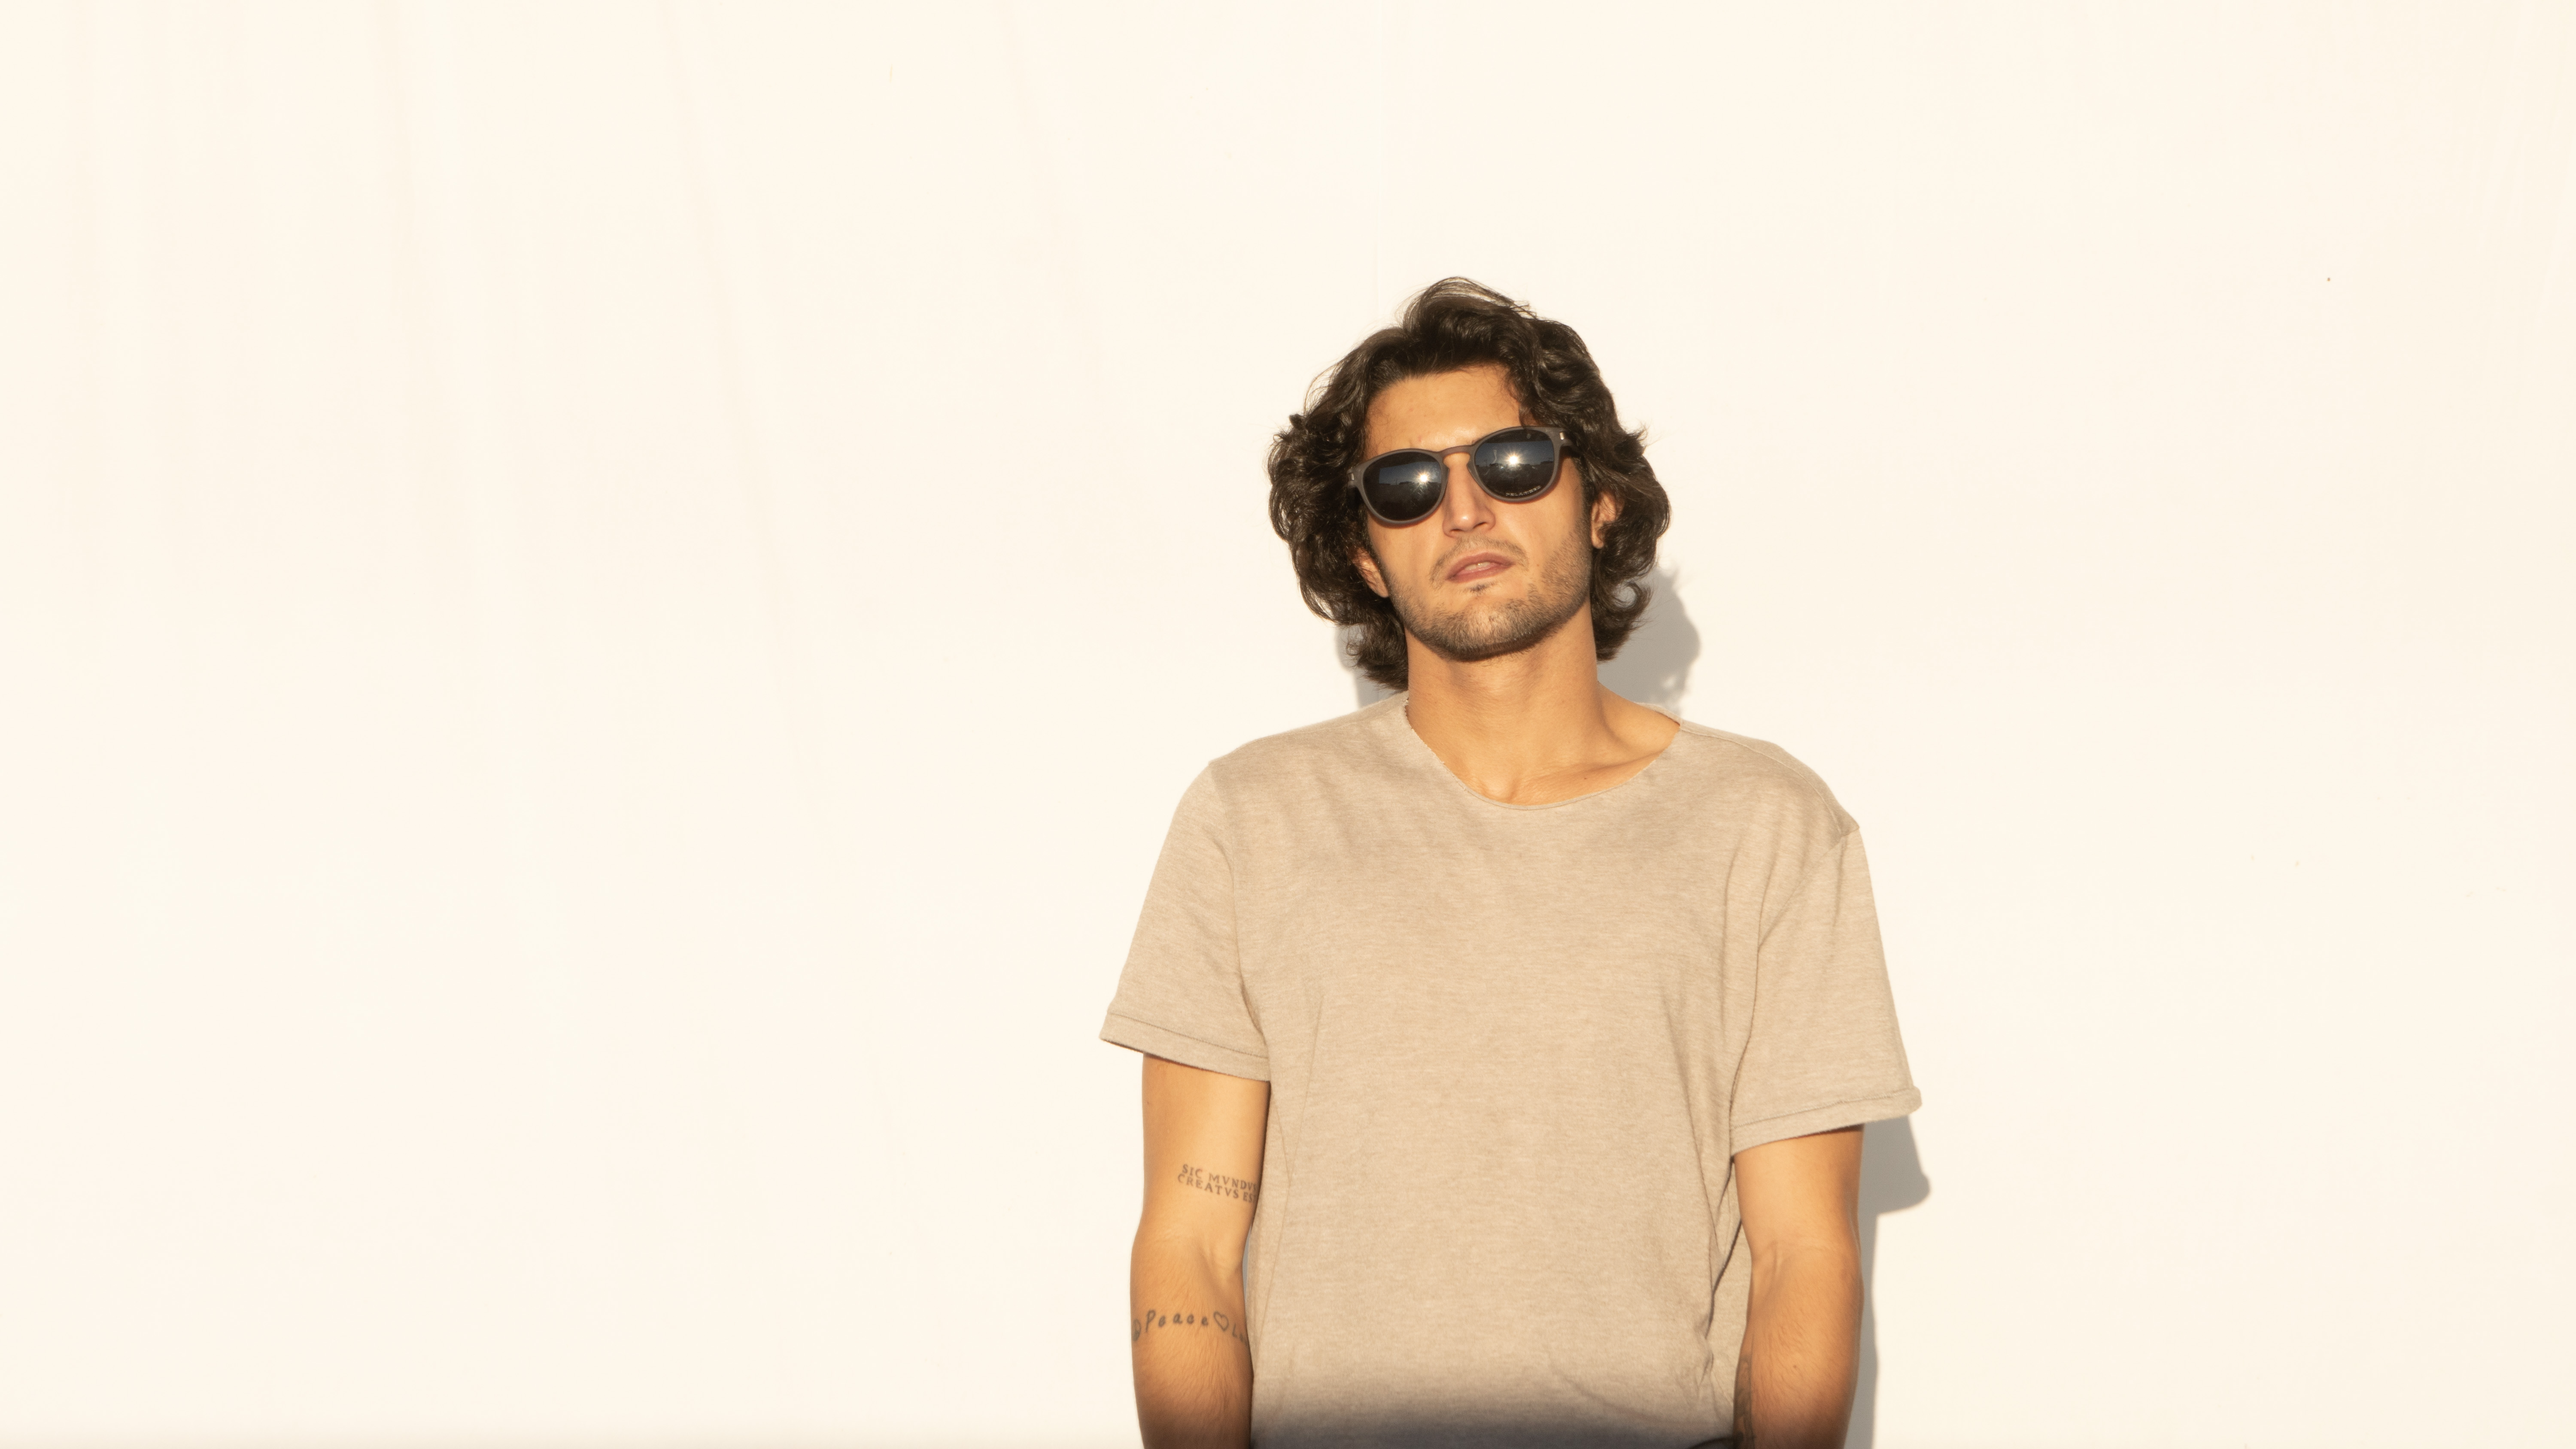
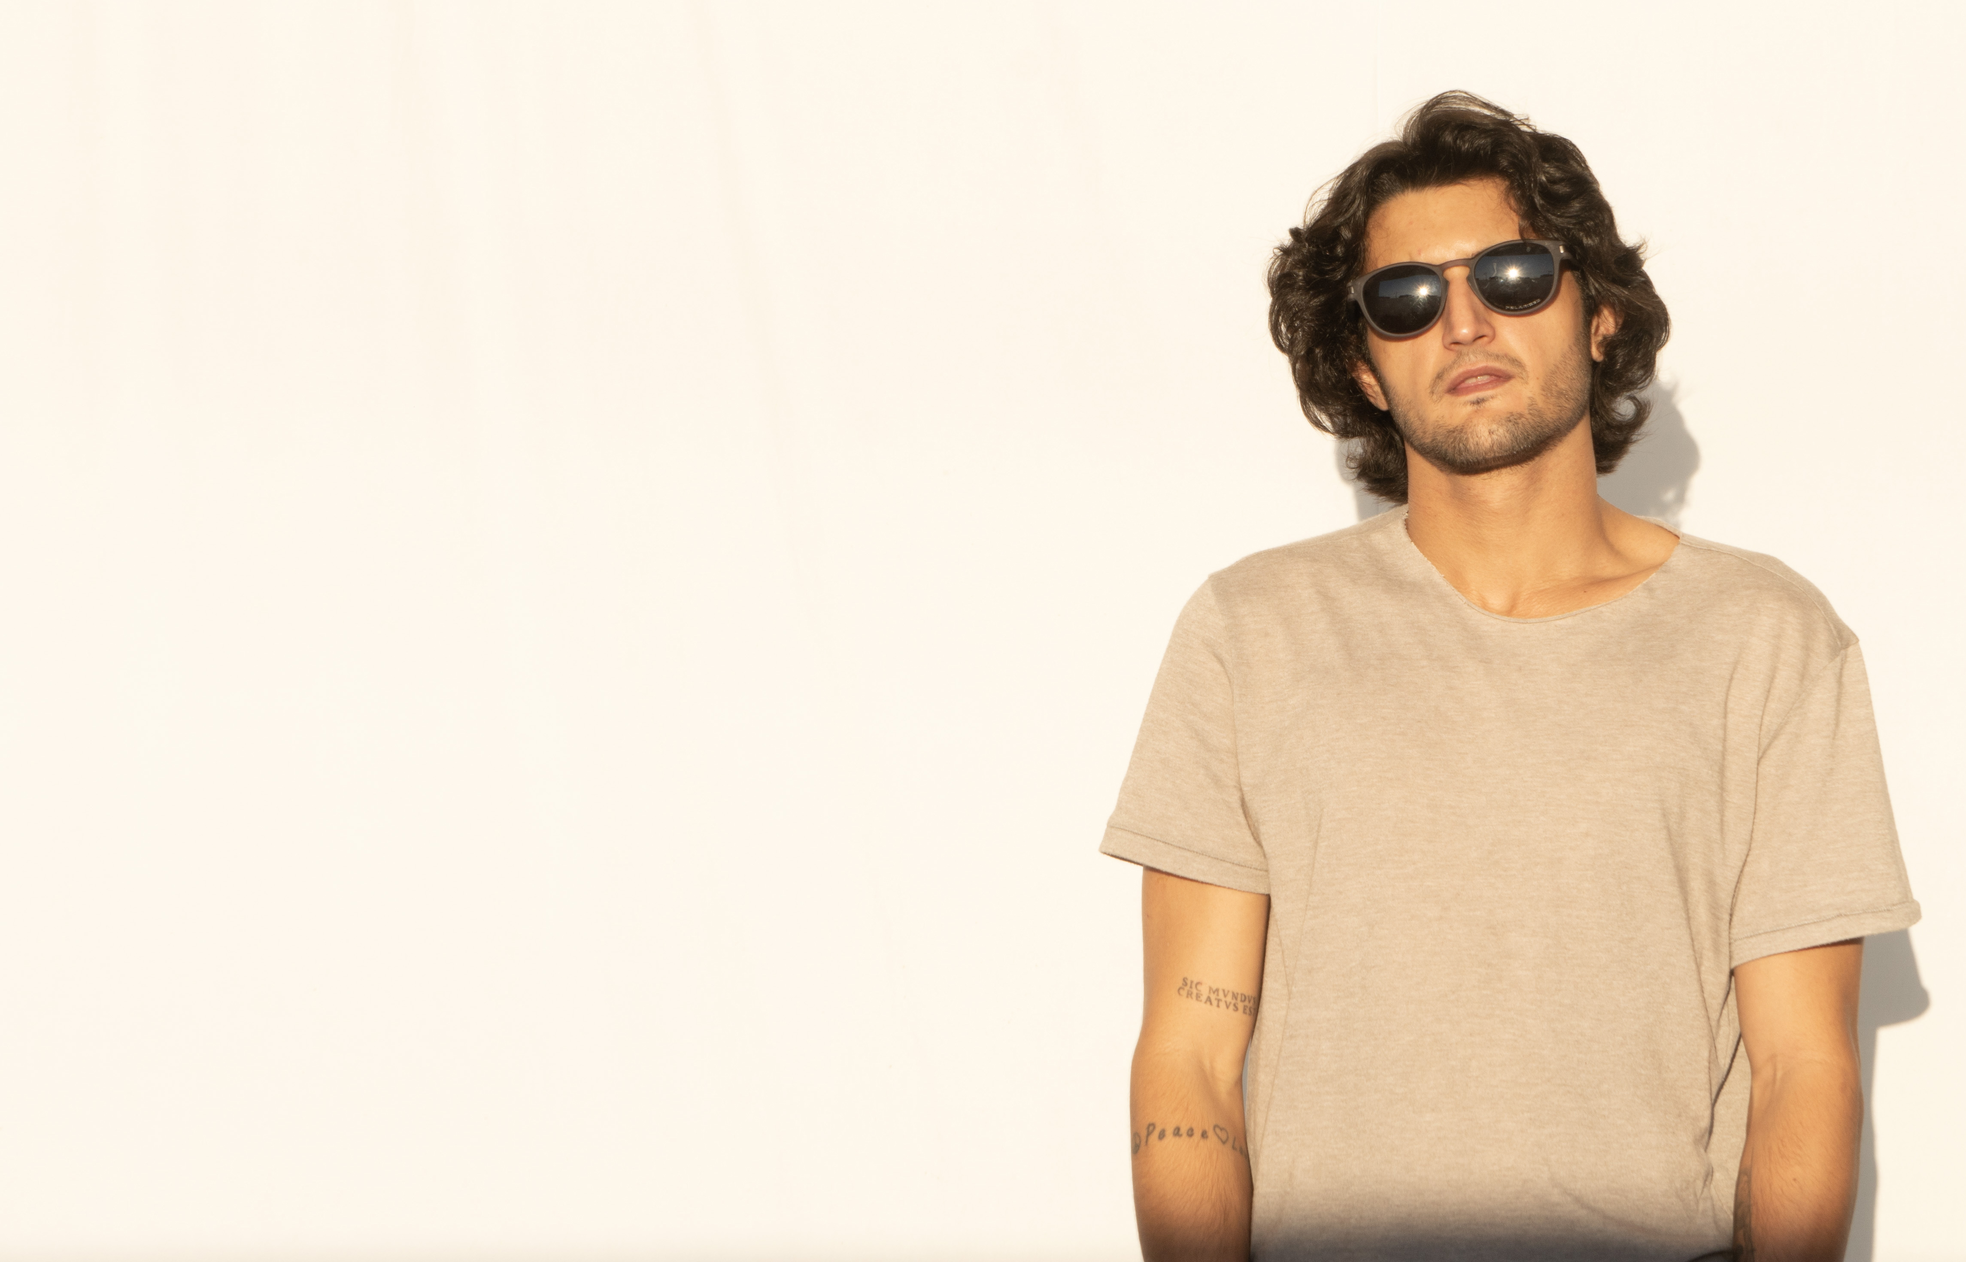
git commit -m "feat: add mobile responsiveness and static export config"

diff --git a/src/components/sections/Contact/index.tsx b/src/components/sections/Contact/index.tsx
@@ -1,10 +1,14 @@
+'use client';
+
 import SectionLabel from '@/components/ui/SectionLabel';
 import ContactForm from './ContactForm';
 
 const INFO_ITEMS = [
-  { key: 'Email', value: 'matheus_psilveira@hotmail.com', highlight: false },
-  { key: 'Tipo de projeto', value: 'Web App · Mobile · Front-end · Back-end', highlight: false },
-  { key: 'Disponibilidade', value: 'Disponível agora', highlight: true },
+  { key: 'Email', value: 'matheus_psilveira@hotmail.com', href: 'mailto:matheus_psilveira@hotmail.com', highlight: false },
+  { key: 'GitHub', value: 'github.com/mrmath12', href: 'https://github.com/mrmath12', highlight: false },
+  { key: 'LinkedIn', value: 'linkedin.com/in/matheus-carvalho-465a00288', href: 'https://linkedin.com/in/matheus-carvalho-465a00288/', highlight: false },
+  { key: 'Tipo de projeto', value: 'Web App · Mobile · Front-end · Back-end', href: null, highlight: false },
+  { key: 'Disponibilidade', value: 'Disponível agora', href: null, highlight: true },
 ];
 
 export default function Contact() {
@@ -44,7 +48,7 @@ export default function Contact() {
         </p>
 
         <div style={{ display: 'flex', flexDirection: 'column', gap: '16px' }}>
-          {INFO_ITEMS.map(({ key, value, highlight }) => (
+          {INFO_ITEMS.map(({ key, value, href, highlight }) => (
             <div key={key}>
               <div
                 style={{
@@ -58,9 +62,27 @@ export default function Contact() {
               >
                 {key}
               </div>
-              <div style={{ fontSize: '15px', color: highlight ? 'var(--brand)' : 'var(--fg2)' }}>
-                {value}
-              </div>
+              {href ? (
+                <a
+                  href={href}
+                  target={href.startsWith('mailto') ? undefined : '_blank'}
+                  rel="noopener noreferrer"
+                  style={{
+                    fontSize: '15px',
+                    color: highlight ? 'var(--brand)' : 'var(--fg2)',
+                    textDecoration: 'none',
+                    transition: 'color 150ms ease',
+                  }}
+                  onMouseEnter={(e) => { (e.currentTarget as HTMLElement).style.color = 'var(--brand)'; }}
+                  onMouseLeave={(e) => { (e.currentTarget as HTMLElement).style.color = highlight ? 'var(--brand)' : 'var(--fg2)'; }}
+                >
+                  {value}
+                </a>
+              ) : (
+                <div style={{ fontSize: '15px', color: highlight ? 'var(--brand)' : 'var(--fg2)' }}>
+                  {value}
+                </div>
+              )}
             </div>
           ))}
         </div>

diff --git a/src/data/projects.ts b/src/data/projects.ts
@@ -30,7 +30,7 @@ export const PROJECTS: Project[] = [
     title: 'Conecta Social Campos',
     cat: 'Desenvolvimento Mobile',
     year: '2025',
-    desc: 'App feito para a Secretaria Municipal de Assistência Social e Cidadania de Campos/RJ con o intuito de juntar todos os programas, serviços e subsecretarias em um único local, facilitando o acesso à população. Também conta com seção de eventos, onde gestores da secretaria podem cadastrar eventos (painel administrativo web)',
+    desc: 'App feito para a Secretaria Municipal de Assistência Social e Cidadania de Campos/RJ com o intuito de juntar todos os programas, serviços e subsecretarias em um único local, facilitando o acesso à população. Também conta com seção de eventos, onde gestores da secretaria podem cadastrar eventos (painel administrativo web)',
     tags: ['React Native', 'TypeScript'],
     bg: '#1d1f14',
     icon: '◧',
@@ -42,8 +42,8 @@ export const PROJECTS: Project[] = [
     title: 'Daychain - Construa seu protocolo diário.',
     cat: 'Desenvolvimento Web',
     year: '2026',
-    desc: 'Serviço focado em ajudar pessoas a construir hábitos saudáveis. SEja para aumentar sua produtividade, bem-estar, saúde... ',
-    tags: ['Next.JS', 'Supabe', 'SQL'],
+    desc: 'Serviço focado em ajudar pessoas a construir hábitos saudáveis. Seja para aumentar sua produtividade, bem-estar ou saúde.',
+    tags: ['Next.JS', 'Supabase', 'SQL'],
     bg: '#1a1d2b',
     icon: '⬡',
     image: '/projects/daychain.png'

diff --git a/src/components/Modal.tsx b/src/components/Modal.tsx
@@ -4,6 +4,7 @@ import { useEffect, useState } from 'react';
 import Image from 'next/image';
 import { PROJECTS } from '@/data/projects';
 import Tag from '@/components/ui/Tag';
+import Button from '@/components/ui/Button';
 
 type ModalProps = {
   projectId: number | null;
@@ -142,18 +143,26 @@ export default function Modal({ projectId, onClose }: ModalProps) {
             whiteSpace: 'pre-line',
           }}
         >
-          {project.desc}{'\n\n'}
-          <a className='transition-transform hover:scale-101 inline-block' href={project.url} target='blank'>{project.url ? '| ACESSAR PROJETO |' : 'EM BREVE'}</a>
+          {project.desc}
         </p>
 
         {/* 6. Tags */}
-        <div style={{ display: 'flex', flexWrap: 'wrap', gap: '8px' }}>
+        <div style={{ display: 'flex', flexWrap: 'wrap', gap: '8px', marginBottom: '24px' }}>
           {project.tags.map((tag, i) => (
             <Tag key={tag} variant={i === 0 ? 'brand' : 'default'}>
               {tag}
             </Tag>
           ))}
         </div>
+
+        {/* 7. CTA */}
+        {project.url ? (
+          <Button variant="primary" href={project.url} target="_blank">
+            Acessar projeto →
+          </Button>
+        ) : (
+          <span style={{ fontSize: '13px', color: 'var(--muted)', fontWeight: 500 }}>Em breve</span>
+        )}
       </div>
     </div>
   );

diff --git a/src/components/sections/About/AboutStudio.tsx b/src/components/sections/About/AboutStudio.tsx
@@ -1,4 +1,3 @@
-import Image from 'next/image';
 import SectionLabel from '@/components/ui/SectionLabel';
 import StatCard from '@/components/ui/StatCard';
 
@@ -60,34 +59,6 @@ export default function AboutStudio() {
         <StatCard variant="default" num="BR" label="Brasil" />
       </div>
 
-      <div
-        className="reveal"
-        style={{
-          maxWidth: '480px',
-          margin: '48px auto 0',
-          borderRadius: '16px',
-          overflow: 'hidden',
-          border: '1px solid var(--border)',
-          aspectRatio: '4/3',
-          position: 'relative',
-          transitionDelay: '240ms',
-        }}
-      >
-        <Image
-          src="/photo-01.jpg"
-          alt="Matheus"
-          fill
-          style={{ objectFit: 'cover', objectPosition: 'top' }}
-        />
-        <div
-          style={{
-            position: 'absolute',
-            inset: 0,
-            background: 'linear-gradient(to top, rgba(16,27,23,0.6) 0%, transparent 50%)',
-            pointerEvents: 'none',
-          }}
-        />
-      </div>
     </div>
   );
 }

diff --git a/src/components/sections/About/index.tsx b/src/components/sections/About/index.tsx
@@ -1,13 +1,26 @@
 'use client';
 
+import Image from 'next/image';
 import AboutStudio from './AboutStudio';
 
-export default function  About() {
-
+export default function About() {
   return (
-    <section id="sobre" style={{ padding: '100px 40px' }}>
-      <div style={{ maxWidth: '1400px', margin: '0 auto' }}>
-        <AboutStudio /> 
+    <section id="sobre" style={{ padding: '100px 40px', position: 'relative', overflow: 'hidden' }}>
+      <Image
+        src="/photo-04.jpg"
+        alt=""
+        fill
+        style={{ objectFit: 'cover', objectPosition: 'top center', opacity: 0.2 }}
+      />
+      <div
+        style={{
+          position: 'absolute',
+          inset: 0,
+          background: 'linear-gradient(to bottom, var(--bg1) 0%, transparent 25%, transparent 75%, var(--bg1) 100%)',
+        }}
+      />
+      <div style={{ maxWidth: '1400px', margin: '0 auto', position: 'relative', zIndex: 1 }}>
+        <AboutStudio />
       </div>
     </section>
   );

diff --git a/src/components/ui/Button.tsx b/src/components/ui/Button.tsx
@@ -5,6 +5,7 @@ type ButtonVariant = 'primary' | 'ghost';
 type ButtonProps = {
   variant: ButtonVariant;
   href?: string;
+  target?: string;
   children: React.ReactNode;
   className?: string;
   type?: 'button' | 'submit' | 'reset';
@@ -43,6 +44,7 @@ const variantStyle: Record<ButtonVariant, React.CSSProperties> = {
 export default function Button({
   variant,
   href,
+  target,
   children,
   className = '',
   type = 'button',
@@ -54,6 +56,8 @@ export default function Button({
     return (
       <a
         href={href}
+        target={target}
+        rel={target === '_blank' ? 'noopener noreferrer' : undefined}
         style={style}
         className={className}
         onMouseEnter={(e) => {

diff --git a/src/components/sections/Hero/HeroEditorial.tsx b/src/components/sections/Hero/HeroEditorial.tsx
@@ -2,7 +2,6 @@
 
 import { useLayout } from '@/context/LayoutContext';
 import { ROLES_DEV, ROLES_CREATIVE } from '@/data/content';
-import Button from '@/components/ui/Button';
 import Tag from '@/components/ui/Tag';
 
 const Placeholder = () => (
@@ -114,7 +113,7 @@ export default function HeroEditorial() {
 
       {/* Right column */}
       <div
-        className="reveal"
+        className="reveal hero-editorial-right"
         style={{ position: 'relative', transitionDelay: '150ms' }}
       >
         <div

diff --git a/src/components/sections/Contact/ContactForm.tsx b/src/components/sections/Contact/ContactForm.tsx
@@ -79,7 +79,7 @@ export default function ContactForm() {
       }}
       style={{ display: 'flex', flexDirection: 'column', gap: '16px' }}
     >
-      <div style={{ display: 'grid', gridTemplateColumns: '1fr 1fr', gap: '12px' }}>
+      <div className="contact-form-inline-grid" style={{ display: 'grid', gridTemplateColumns: '1fr 1fr', gap: '12px' }}>
         <Field label="Nome">
           <input
             type="text"

diff --git a/src/app/globals.css b/src/app/globals.css
@@ -98,4 +98,10 @@ section { scroll-margin-top: 62px; }
   }
 
   .about-studio-stats { grid-template-columns: repeat(2, 1fr) !important; }
+
+  .project-featured-grid { grid-template-columns: 1fr !important; }
+
+  .hero-editorial-right { overflow: hidden; }
+
+  .contact-form-inline-grid { grid-template-columns: 1fr !important; }
 }

diff --git a/src/components/sections/Projects/ProjectFeatured.tsx b/src/components/sections/Projects/ProjectFeatured.tsx
@@ -13,6 +13,7 @@ export default function ProjectFeatured({ project: p, onClick }: ProjectFeatured
   return (
     <div
       onClick={onClick}
+      className="project-featured-grid"
       style={{
         display: 'grid',
         gridTemplateColumns: '1.4fr 1fr',
